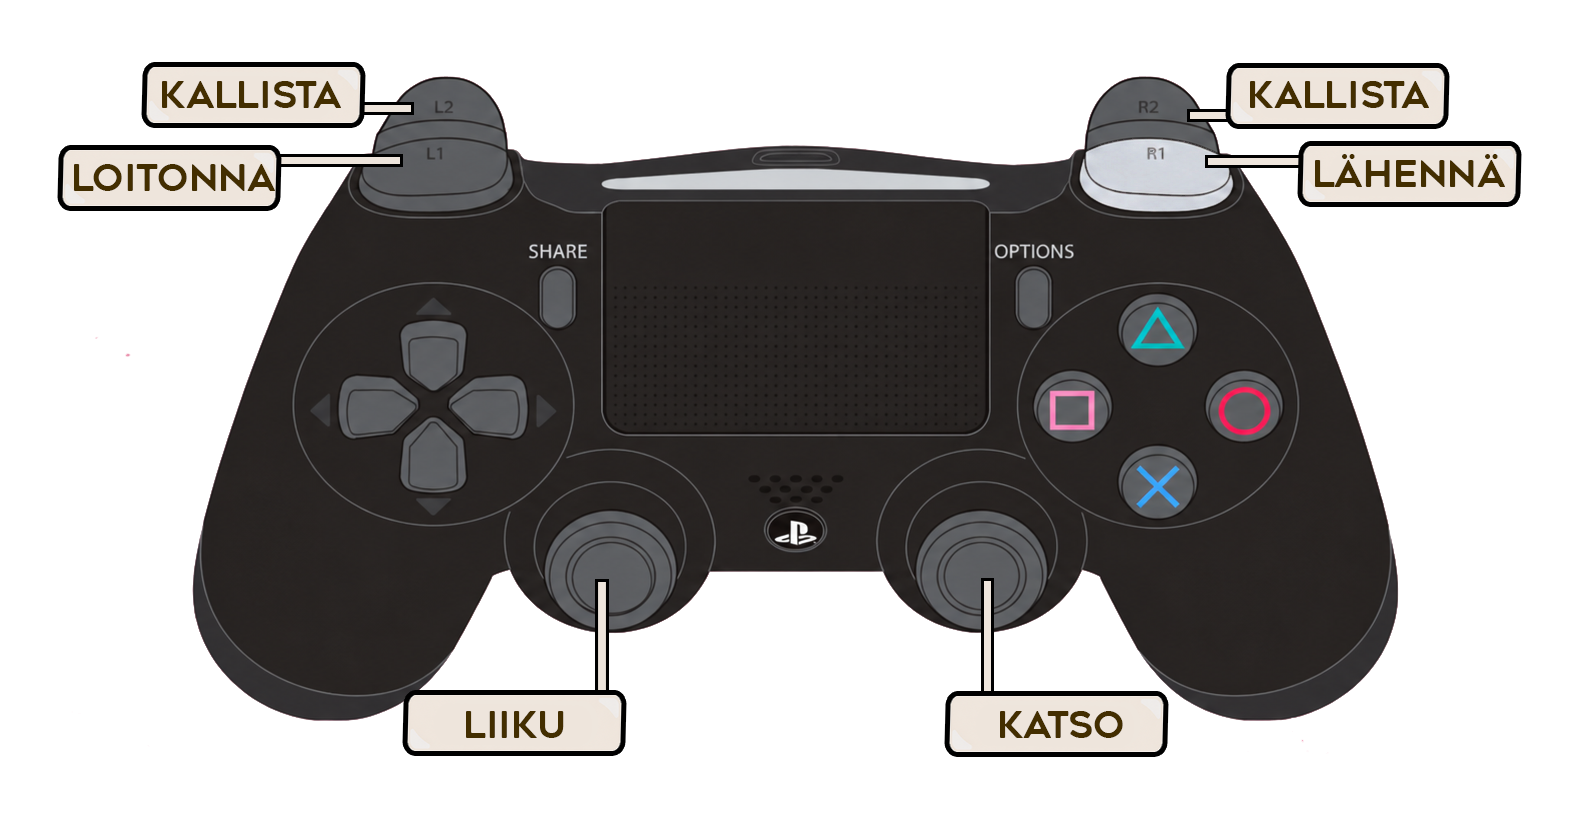
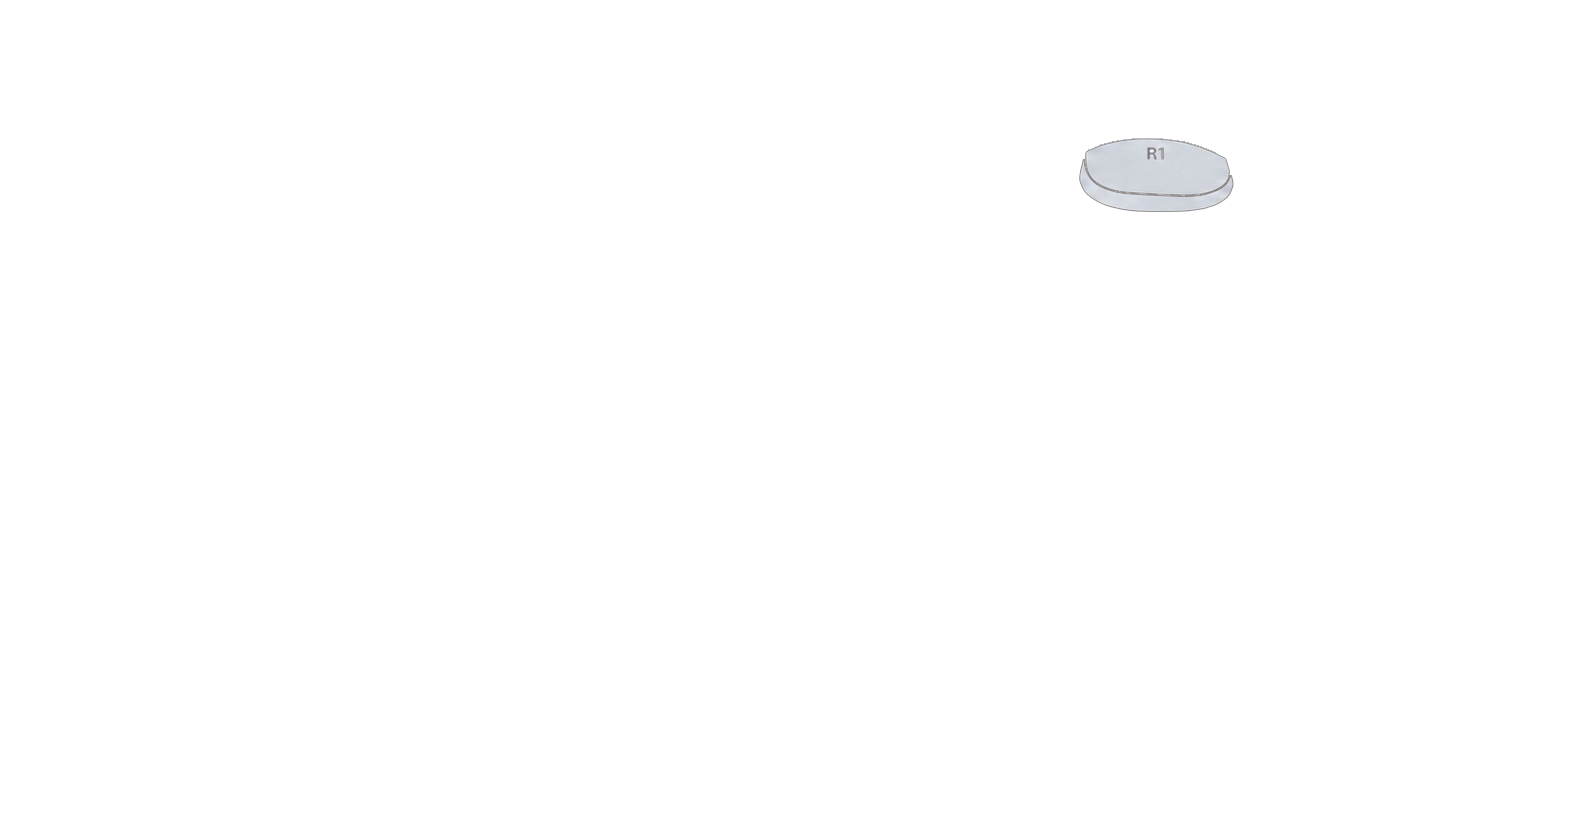
Controller picture: the six highlights are transparent layers stacked on the base, so every pressed control lights up at once

diff --git a/index.html b/index.html
@@ -280,7 +280,15 @@ body.dark-mode .loading-zzz span,body.dark-mode .loading-text{color:#c9b48f}
 <button id="vr-btn" title="Siirry VR-tilaan" style="display:none"><span id="vr-icon">🥽</span><span id="vr-label">VR</span></button>
 <div id="zoomval">1.0×</div>
 <div id="camcoords"></div>
-<img id="padimg" src="controls.png" alt="" style="position:fixed; left:12px; bottom:12px; width:280px; max-width:34vw; z-index:10; pointer-events:none; user-select:none;">
+<div id="padbox" style="position:fixed; left:12px; bottom:12px; width:280px; max-width:34vw; z-index:10; pointer-events:none; user-select:none; line-height:0;">
+  <img id="padimg" src="controls.png" alt="" style="display:block; width:100%;">
+  <img class="padhl" data-k="left"  src="left.png"  alt="" style="position:absolute; left:0; top:0; width:100%; display:none;">
+  <img class="padhl" data-k="right" src="right.png" alt="" style="position:absolute; left:0; top:0; width:100%; display:none;">
+  <img class="padhl" data-k="L1"    src="L1.png"    alt="" style="position:absolute; left:0; top:0; width:100%; display:none;">
+  <img class="padhl" data-k="L2"    src="L2.png"    alt="" style="position:absolute; left:0; top:0; width:100%; display:none;">
+  <img class="padhl" data-k="R1"    src="R1.png"    alt="" style="position:absolute; left:0; top:0; width:100%; display:none;">
+  <img class="padhl" data-k="R2"    src="R2.png"    alt="" style="position:absolute; left:0; top:0; width:100%; display:none;">
+</div>
 <div id="speedbox" style="position:fixed; left:50%; top:12px; transform:translateX(-50%); text-align:center; z-index:10; font:11px ui-monospace,monospace; color:#6a6a5a; user-select:none;">
   <div style="margin-bottom:4px; letter-spacing:.5px;">nopeus <span id="speedval">0.1×</span></div>
   <input id="speed" type="range" min="0" max="30" value="1" style="width:130px; cursor:pointer;">
@@ -3450,28 +3458,25 @@ void main(void){
        L1 / R1      LOITONNA / LÄHENNÄ → Q / E, out / in along the view
        L2 / R2      KALLISTA → F / R, roll
      The picture bottom-left (controls.png) is ALWAYS shown - above the vignette, and never hidden by
-     the idle-cursor rule - and switches to the variant that highlights whatever is being used, the most
-     recently pressed control winning. */
-  { const PAD_IMG = { base:'controls.png', left:'left.png', right:'right.png', L1:'L1.png', L2:'L2.png', R1:'R1.png', R2:'R2.png' };   // the owner's own PNGs (kontrollit.psd is the source)
-    for(const k in PAD_IMG){ const im = new Image(); im.src = PAD_IMG[k]; }   // preloaded → the switch is instant
-    const padEl = document.getElementById('padimg'), DZ = 0.3, padPrev = Object.create(null);
-    let padShown = null, padActive = null;
+     the idle-cursor rule. The six highlight images (left/right/L1/L2/R1/R2.png, the owner's files, source
+     kontrollit.psd) are transparent layers stacked on it, each shown while its control is in use - so
+     any number of pressed controls light up together. */
+  { const DZ = 0.3, padPrev = Object.create(null), padHl = Object.create(null), padOn = Object.create(null);
+    for(const el of document.querySelectorAll('#padbox .padhl')) padHl[el.dataset.k] = el;
+    const showHl = (k, on) => { if(!!padOn[k] === on) return; padOn[k] = on; if(padHl[k]) padHl[k].style.display = on ? 'block' : 'none'; };
     const setKey = (k, on) => { if(!!padPrev[k] === on) return; padPrev[k] = on;
       if(/^Arrow/.test(k)) arrowKeys[k] = on; else { if(on) scene.stopAnimation(cam); wasdKeys[k] = on; } };
     const pollPad = () => {
       const pads = navigator.getGamepads ? navigator.getGamepads() : null; let gp = null;
       if(pads) for(const g of pads) if(g && g.connected){ gp = g; break; }
-      if(!gp){ for(const k in padPrev) if(padPrev[k]) setKey(k, false); padActive = null;   // the picture stays up, pad or no pad
-        if(padShown !== PAD_IMG.base){ padShown = PAD_IMG.base; if(padEl) padEl.src = padShown; } return; }
+      if(!gp){ for(const k in padPrev) if(padPrev[k]) setKey(k, false); for(const k in padOn) showHl(k, false); return; }   // the picture stays up, pad or no pad
       const ax = gp.axes || [], bt = gp.buttons || [], b = i => !!(bt[i] && (bt[i].pressed || bt[i].value > 0.5));
       const lx = ax[0]||0, ly = ax[1]||0, rx = ax[2]||0, ry = ax[3]||0;
       setKey('a', lx < -DZ); setKey('d', lx > DZ); setKey('w', ly < -DZ); setKey('s', ly > DZ);
       setKey('ArrowLeft', rx < -DZ); setKey('ArrowRight', rx > DZ); setKey('ArrowUp', ry < -DZ); setKey('ArrowDown', ry > DZ);
       setKey('q', b(4)); setKey('e', b(5)); setKey('f', b(6)); setKey('r', b(7));
-      const act = { left: Math.hypot(lx,ly) > DZ, right: Math.hypot(rx,ry) > DZ, L1: b(4), R1: b(5), L2: b(6), R2: b(7) };
-      if(!padActive || !act[padActive]){ padActive = null; for(const k in act) if(act[k]){ padActive = k; break; } }
-      const want = padActive ? PAD_IMG[padActive] : PAD_IMG.base;
-      if(want !== padShown){ padShown = want; if(padEl) padEl.src = want; }
+      showHl('left', Math.hypot(lx,ly) > DZ); showHl('right', Math.hypot(rx,ry) > DZ);
+      showHl('L1', b(4)); showHl('R1', b(5)); showHl('L2', b(6)); showHl('R2', b(7));
     };
     window.__pollPad = pollPad;   // debug hook
     scene.onBeforeRenderObservable.add(pollPad);

diff --git a/AGENT_NOTES.md b/AGENT_NOTES.md
@@ -89,8 +89,9 @@ travel between binding sites, photons that hit chlorophylls. UI text is Finnish.
   distance, no sheet wrap, slab hidden. The protein hull handover still uses memR.
 - Gamepad (DualShock, standard mapping): polled every frame, drives the keyboard's own flags edge-
   triggered (left stick A/D + W/S, right stick arrows, L1/R1 = Q/E zoom, L2/R2 = F/R roll). The picture
-  bottom-left (controls.png, and left/right/L1/L2/R1/R2.png for the highlighted variants - the owner's
-  files, source kontrollit.psd) shows only while a pad is connected. `window.__pollPad` is the poll.
+  bottom-left is ALWAYS shown: controls.png as the base with left/right/L1/L2/R1/R2.png stacked on it as
+  transparent highlight layers (the owner's files, source kontrollit.psd), each visible while its control
+  is in use, any number at once. `window.__pollPad` is the poll.
 - Lighting: key light with a depth darkening by distance past the orbit pivot (`gDepthK`,
   `gDepthLo`). Chlorophylls are green, carotenoids orange, by ETC cofactor type.
 - Camera: ArcRotate. The wheel has an ABSOLUTE maximum step `gZoomMax` (60 units per notch), a
